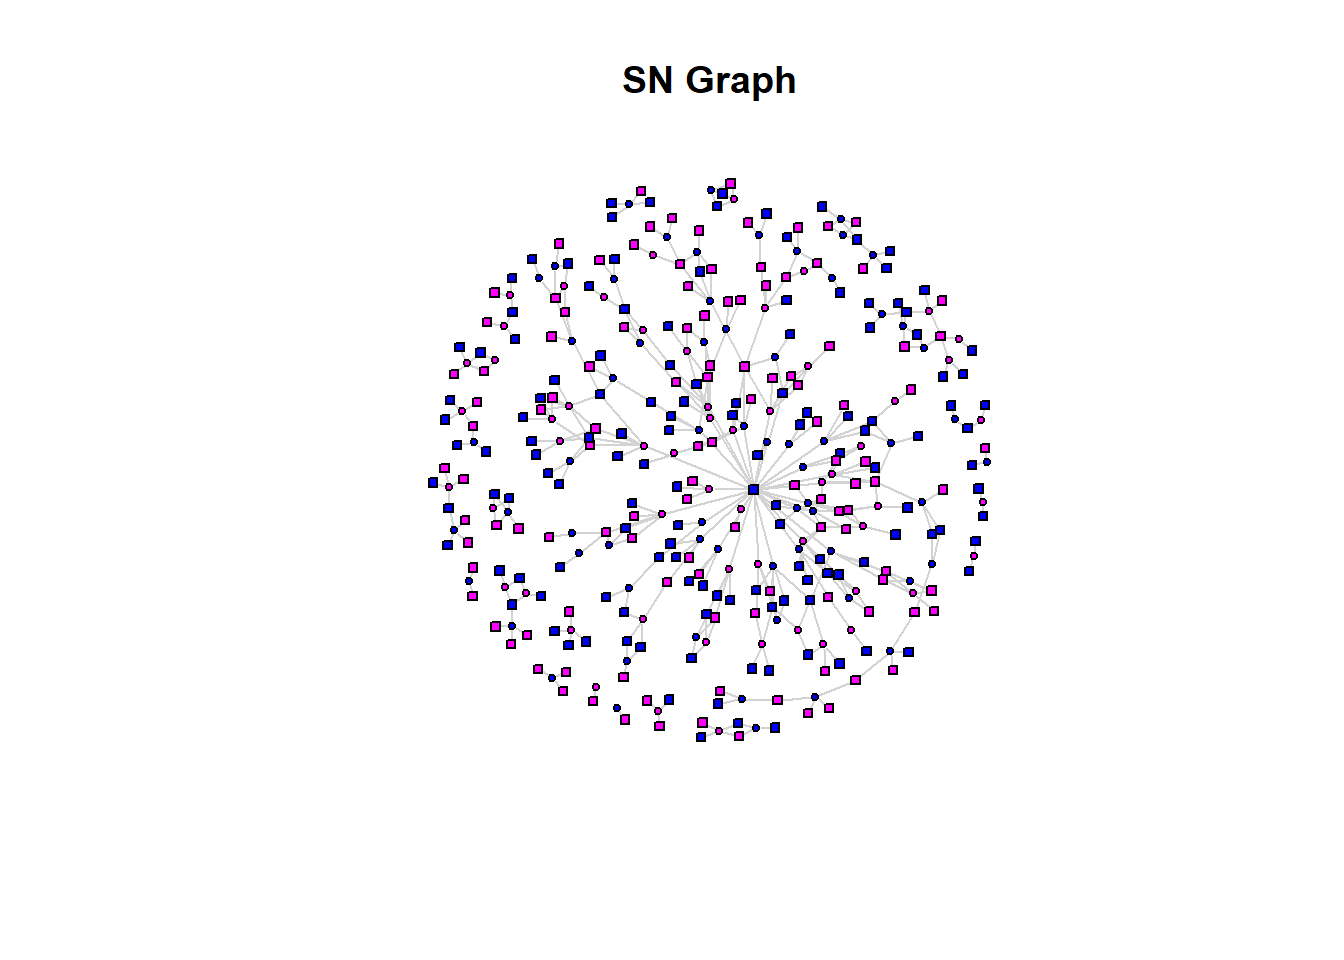
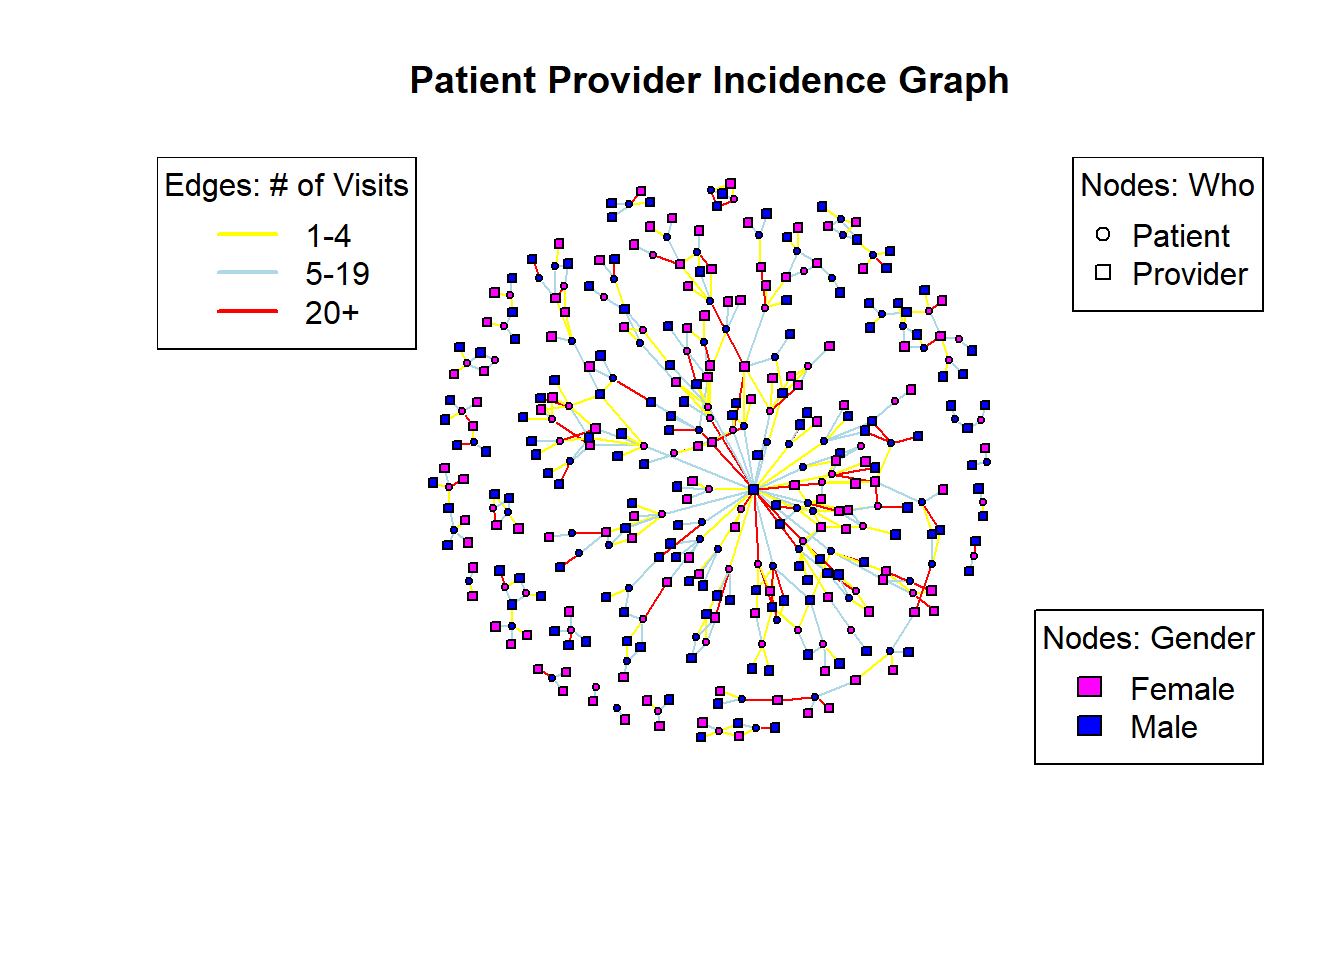
update graph post two

diff --git a/docs/posts/Post_Two/post_2.html b/docs/posts/Post_Two/post_2.html
@@ -293,18 +293,49 @@ pre > code.sourceCode > span > a:first-child::before { text-decoration: underlin
 <div class="cell">
 <div class="sourceCode cell-code" id="cb22"><pre class="sourceCode r code-with-copy"><code class="sourceCode r"><span id="cb22-1"><a href="#cb22-1" aria-hidden="true" tabindex="-1"></a>vertex_colors <span class="ot">&lt;-</span> <span class="fu">ifelse</span>(attribute_list<span class="sc">$</span>GENDER <span class="sc">==</span> <span class="st">"F"</span>, <span class="st">"blue"</span>, <span class="st">"magenta"</span>)</span>
 <span id="cb22-2"><a href="#cb22-2" aria-hidden="true" tabindex="-1"></a><span class="fu">V</span>(incidence_graph)<span class="sc">$</span>shape <span class="ot">&lt;-</span> <span class="fu">ifelse</span>(<span class="fu">V</span>(incidence_graph)<span class="sc">$</span>type, <span class="st">"square"</span>, <span class="st">"circle"</span>)</span>
-<span id="cb22-3"><a href="#cb22-3" aria-hidden="true" tabindex="-1"></a><span class="fu">E</span>(incidence_graph)<span class="sc">$</span>color <span class="ot">&lt;-</span> <span class="st">"lightgray"</span></span>
-<span id="cb22-4"><a href="#cb22-4" aria-hidden="true" tabindex="-1"></a></span>
-<span id="cb22-5"><a href="#cb22-5" aria-hidden="true" tabindex="-1"></a></span>
-<span id="cb22-6"><a href="#cb22-6" aria-hidden="true" tabindex="-1"></a><span class="fu">plot</span>(incidence_graph,</span>
-<span id="cb22-7"><a href="#cb22-7" aria-hidden="true" tabindex="-1"></a>     <span class="at">layout =</span> layout.fruchterman.reingold, </span>
-<span id="cb22-8"><a href="#cb22-8" aria-hidden="true" tabindex="-1"></a>     <span class="at">vertex.label.dist =</span> <span class="dv">2</span>, </span>
-<span id="cb22-9"><a href="#cb22-9" aria-hidden="true" tabindex="-1"></a>     <span class="at">vertex.size =</span> <span class="dv">3</span>, </span>
-<span id="cb22-10"><a href="#cb22-10" aria-hidden="true" tabindex="-1"></a>     <span class="at">vertex.color =</span> vertex_colors,</span>
-<span id="cb22-11"><a href="#cb22-11" aria-hidden="true" tabindex="-1"></a>     <span class="at">edge.label =</span> <span class="cn">NA</span>,</span>
-<span id="cb22-12"><a href="#cb22-12" aria-hidden="true" tabindex="-1"></a>     <span class="at">vertex.label =</span> <span class="cn">NA</span>,</span>
-<span id="cb22-13"><a href="#cb22-13" aria-hidden="true" tabindex="-1"></a>     <span class="at">vertex.label.cex =</span> <span class="fl">0.2</span>, </span>
-<span id="cb22-14"><a href="#cb22-14" aria-hidden="true" tabindex="-1"></a>     <span class="at">main =</span> <span class="st">"SN Graph"</span>)</span></code><button title="Copy to Clipboard" class="code-copy-button"><i class="bi"></i></button></pre></div>
+<span id="cb22-3"><a href="#cb22-3" aria-hidden="true" tabindex="-1"></a></span>
+<span id="cb22-4"><a href="#cb22-4" aria-hidden="true" tabindex="-1"></a><span class="co"># Define edge colors based on COUNT attribute</span></span>
+<span id="cb22-5"><a href="#cb22-5" aria-hidden="true" tabindex="-1"></a>edge_colors <span class="ot">&lt;-</span> <span class="fu">ifelse</span>(encounters_el<span class="sc">$</span>COUNT <span class="sc">&lt;</span> <span class="dv">5</span>, <span class="st">"yellow"</span>, </span>
+<span id="cb22-6"><a href="#cb22-6" aria-hidden="true" tabindex="-1"></a>                      <span class="fu">ifelse</span>(encounters_el<span class="sc">$</span>COUNT <span class="sc">&gt;=</span> <span class="dv">5</span> <span class="sc">&amp;</span> encounters_el<span class="sc">$</span>COUNT <span class="sc">&lt;=</span> <span class="dv">19</span>, <span class="st">"lightblue"</span>, <span class="st">"red"</span>))</span>
+<span id="cb22-7"><a href="#cb22-7" aria-hidden="true" tabindex="-1"></a></span>
+<span id="cb22-8"><a href="#cb22-8" aria-hidden="true" tabindex="-1"></a><span class="co"># Check if the length of edge_colors matches the number of edges</span></span>
+<span id="cb22-9"><a href="#cb22-9" aria-hidden="true" tabindex="-1"></a><span class="cf">if</span> (<span class="fu">length</span>(edge_colors) <span class="sc">==</span> <span class="fu">ecount</span>(incidence_graph)) {</span>
+<span id="cb22-10"><a href="#cb22-10" aria-hidden="true" tabindex="-1"></a>  <span class="co"># Set edge attributes based on counts</span></span>
+<span id="cb22-11"><a href="#cb22-11" aria-hidden="true" tabindex="-1"></a>  <span class="fu">E</span>(incidence_graph)<span class="sc">$</span>color <span class="ot">&lt;-</span> edge_colors</span>
+<span id="cb22-12"><a href="#cb22-12" aria-hidden="true" tabindex="-1"></a>} <span class="cf">else</span> {</span>
+<span id="cb22-13"><a href="#cb22-13" aria-hidden="true" tabindex="-1"></a>  <span class="fu">print</span>(<span class="st">"Length of edge_colors does not match the number of edges in the graph."</span>)</span>
+<span id="cb22-14"><a href="#cb22-14" aria-hidden="true" tabindex="-1"></a>}</span>
+<span id="cb22-15"><a href="#cb22-15" aria-hidden="true" tabindex="-1"></a></span>
+<span id="cb22-16"><a href="#cb22-16" aria-hidden="true" tabindex="-1"></a><span class="fu">E</span>(incidence_graph)<span class="sc">$</span>color <span class="ot">&lt;-</span> edge_colors</span>
+<span id="cb22-17"><a href="#cb22-17" aria-hidden="true" tabindex="-1"></a></span>
+<span id="cb22-18"><a href="#cb22-18" aria-hidden="true" tabindex="-1"></a></span>
+<span id="cb22-19"><a href="#cb22-19" aria-hidden="true" tabindex="-1"></a><span class="fu">plot</span>(incidence_graph,</span>
+<span id="cb22-20"><a href="#cb22-20" aria-hidden="true" tabindex="-1"></a>     <span class="at">layout =</span> layout.fruchterman.reingold, </span>
+<span id="cb22-21"><a href="#cb22-21" aria-hidden="true" tabindex="-1"></a>     <span class="at">vertex.label.dist =</span> <span class="dv">2</span>, </span>
+<span id="cb22-22"><a href="#cb22-22" aria-hidden="true" tabindex="-1"></a>     <span class="at">vertex.size =</span> <span class="dv">3</span>, </span>
+<span id="cb22-23"><a href="#cb22-23" aria-hidden="true" tabindex="-1"></a>     <span class="at">vertex.color =</span> vertex_colors,</span>
+<span id="cb22-24"><a href="#cb22-24" aria-hidden="true" tabindex="-1"></a>     <span class="at">edge.label =</span> <span class="cn">NA</span>,</span>
+<span id="cb22-25"><a href="#cb22-25" aria-hidden="true" tabindex="-1"></a>     <span class="at">vertex.label =</span> <span class="cn">NA</span>,</span>
+<span id="cb22-26"><a href="#cb22-26" aria-hidden="true" tabindex="-1"></a>     <span class="at">vertex.label.cex =</span> <span class="fl">0.2</span>, </span>
+<span id="cb22-27"><a href="#cb22-27" aria-hidden="true" tabindex="-1"></a>     <span class="at">main =</span> <span class="st">"Patient Provider Incidence Graph"</span>)</span>
+<span id="cb22-28"><a href="#cb22-28" aria-hidden="true" tabindex="-1"></a><span class="co"># Define legend for vertex colors</span></span>
+<span id="cb22-29"><a href="#cb22-29" aria-hidden="true" tabindex="-1"></a><span class="fu">legend</span>(<span class="st">"bottomright"</span>,</span>
+<span id="cb22-30"><a href="#cb22-30" aria-hidden="true" tabindex="-1"></a>       <span class="at">legend =</span> <span class="fu">c</span>(<span class="st">"Female"</span>, <span class="st">"Male"</span>),  <span class="co"># You can customize these labels</span></span>
+<span id="cb22-31"><a href="#cb22-31" aria-hidden="true" tabindex="-1"></a>       <span class="at">fill =</span> <span class="fu">c</span>(<span class="st">"magenta"</span>, <span class="st">"blue"</span>),   <span class="co"># Fill colors corresponding to vertex colors</span></span>
+<span id="cb22-32"><a href="#cb22-32" aria-hidden="true" tabindex="-1"></a>       <span class="at">title =</span> <span class="st">"Nodes: Gender"</span>)              <span class="co"># Legend title</span></span>
+<span id="cb22-33"><a href="#cb22-33" aria-hidden="true" tabindex="-1"></a></span>
+<span id="cb22-34"><a href="#cb22-34" aria-hidden="true" tabindex="-1"></a><span class="co"># Define legend for vertex shapes</span></span>
+<span id="cb22-35"><a href="#cb22-35" aria-hidden="true" tabindex="-1"></a><span class="fu">legend</span>(<span class="st">"topright"</span>,</span>
+<span id="cb22-36"><a href="#cb22-36" aria-hidden="true" tabindex="-1"></a>       <span class="at">legend =</span> <span class="fu">c</span>(<span class="st">"Patient"</span>, <span class="st">"Provider"</span>),  <span class="co"># You can customize these labels</span></span>
+<span id="cb22-37"><a href="#cb22-37" aria-hidden="true" tabindex="-1"></a>       <span class="at">pch =</span> <span class="fu">c</span>(<span class="dv">1</span>, <span class="dv">0</span>),                      <span class="co"># Point shapes corresponding to vertex shapes</span></span>
+<span id="cb22-38"><a href="#cb22-38" aria-hidden="true" tabindex="-1"></a>       <span class="at">title =</span> <span class="st">"Nodes: Who"</span>)                     <span class="co"># Legend title</span></span>
+<span id="cb22-39"><a href="#cb22-39" aria-hidden="true" tabindex="-1"></a></span>
+<span id="cb22-40"><a href="#cb22-40" aria-hidden="true" tabindex="-1"></a><span class="co"># Define legend for edge colors</span></span>
+<span id="cb22-41"><a href="#cb22-41" aria-hidden="true" tabindex="-1"></a><span class="fu">legend</span>(<span class="st">"topleft"</span>,</span>
+<span id="cb22-42"><a href="#cb22-42" aria-hidden="true" tabindex="-1"></a>       <span class="at">legend =</span> <span class="fu">c</span>(<span class="st">"1-4"</span>, <span class="st">"5-19"</span>, <span class="st">"20+"</span>),  <span class="co"># You can customize these labels</span></span>
+<span id="cb22-43"><a href="#cb22-43" aria-hidden="true" tabindex="-1"></a>       <span class="at">col =</span> <span class="fu">c</span>(<span class="st">"yellow"</span>, <span class="st">"lightblue"</span>, <span class="st">"red"</span>),  <span class="co"># Line colors corresponding to edge colors</span></span>
+<span id="cb22-44"><a href="#cb22-44" aria-hidden="true" tabindex="-1"></a>       <span class="at">lwd =</span> <span class="dv">2</span>,                            <span class="co"># Line width</span></span>
+<span id="cb22-45"><a href="#cb22-45" aria-hidden="true" tabindex="-1"></a>       <span class="at">title =</span> <span class="st">"Edges: # of Visits"</span>)              <span class="co"># Legend title</span></span></code><button title="Copy to Clipboard" class="code-copy-button"><i class="bi"></i></button></pre></div>
 <div class="cell-output-display">
 <p><img src="post_2_files/figure-html/unnamed-chunk-8-1.png" class="img-fluid" width="672"></p>
 </div>
@@ -703,27 +734,30 @@ Elmer371 Kutch271            TRUE   1 0.000000e+00 0.1000000000 1.372897e-17</co
 <span id="cb25-3"><a href="#cb25-3" aria-hidden="true" tabindex="-1"></a><span class="co"># set the seed to reproduce the plot layout</span></span>
 <span id="cb25-4"><a href="#cb25-4" aria-hidden="true" tabindex="-1"></a><span class="fu">set.seed</span>( <span class="dv">235</span> )</span>
 <span id="cb25-5"><a href="#cb25-5" aria-hidden="true" tabindex="-1"></a></span>
-<span id="cb25-6"><a href="#cb25-6" aria-hidden="true" tabindex="-1"></a><span class="fu">plot</span>(incidence_graph,     <span class="at">edge.label =</span> <span class="cn">NA</span>,</span>
-<span id="cb25-7"><a href="#cb25-7" aria-hidden="true" tabindex="-1"></a>     <span class="at">vertex.label =</span> <span class="cn">NA</span>, </span>
-<span id="cb25-8"><a href="#cb25-8" aria-hidden="true" tabindex="-1"></a>     <span class="at">main =</span> <span class="st">"Patient Provider Incidence Graph with Degree Information"</span>)</span>
-<span id="cb25-9"><a href="#cb25-9" aria-hidden="true" tabindex="-1"></a><span class="co"># Define legend for vertex colors</span></span>
-<span id="cb25-10"><a href="#cb25-10" aria-hidden="true" tabindex="-1"></a><span class="fu">legend</span>(<span class="st">"bottomright"</span>,</span>
-<span id="cb25-11"><a href="#cb25-11" aria-hidden="true" tabindex="-1"></a>       <span class="at">legend =</span> <span class="fu">c</span>(<span class="st">"Female"</span>, <span class="st">"Male"</span>),  <span class="co"># You can customize these labels</span></span>
-<span id="cb25-12"><a href="#cb25-12" aria-hidden="true" tabindex="-1"></a>       <span class="at">fill =</span> <span class="fu">c</span>(<span class="st">"pink"</span>, <span class="st">"blue"</span>),   <span class="co"># Fill colors corresponding to vertex colors</span></span>
-<span id="cb25-13"><a href="#cb25-13" aria-hidden="true" tabindex="-1"></a>       <span class="at">title =</span> <span class="st">"Nodes: Gender"</span>)              <span class="co"># Legend title</span></span>
-<span id="cb25-14"><a href="#cb25-14" aria-hidden="true" tabindex="-1"></a></span>
-<span id="cb25-15"><a href="#cb25-15" aria-hidden="true" tabindex="-1"></a><span class="co"># Define legend for vertex shapes</span></span>
-<span id="cb25-16"><a href="#cb25-16" aria-hidden="true" tabindex="-1"></a><span class="fu">legend</span>(<span class="st">"topright"</span>,</span>
-<span id="cb25-17"><a href="#cb25-17" aria-hidden="true" tabindex="-1"></a>       <span class="at">legend =</span> <span class="fu">c</span>(<span class="st">"Patient"</span>, <span class="st">"Provider"</span>),  <span class="co"># You can customize these labels</span></span>
-<span id="cb25-18"><a href="#cb25-18" aria-hidden="true" tabindex="-1"></a>       <span class="at">pch =</span> <span class="fu">c</span>(<span class="dv">1</span>, <span class="dv">0</span>),                      <span class="co"># Point shapes corresponding to vertex shapes</span></span>
-<span id="cb25-19"><a href="#cb25-19" aria-hidden="true" tabindex="-1"></a>       <span class="at">title =</span> <span class="st">"Nodes: Who"</span>)                     <span class="co"># Legend title</span></span>
-<span id="cb25-20"><a href="#cb25-20" aria-hidden="true" tabindex="-1"></a></span>
-<span id="cb25-21"><a href="#cb25-21" aria-hidden="true" tabindex="-1"></a><span class="co"># Define legend for edge colors</span></span>
-<span id="cb25-22"><a href="#cb25-22" aria-hidden="true" tabindex="-1"></a><span class="fu">legend</span>(<span class="st">"topleft"</span>, </span>
-<span id="cb25-23"><a href="#cb25-23" aria-hidden="true" tabindex="-1"></a>       <span class="at">legend =</span> <span class="st">"Vertex Size"</span>, </span>
-<span id="cb25-24"><a href="#cb25-24" aria-hidden="true" tabindex="-1"></a>       <span class="at">pch =</span> <span class="dv">1</span>, </span>
-<span id="cb25-25"><a href="#cb25-25" aria-hidden="true" tabindex="-1"></a>       <span class="at">pt.cex =</span> <span class="fu">seq</span>(<span class="fl">0.5</span>, <span class="dv">3</span>, <span class="at">length.out =</span> <span class="dv">5</span>), </span>
-<span id="cb25-26"><a href="#cb25-26" aria-hidden="true" tabindex="-1"></a>       <span class="at">title =</span> <span class="st">"Degree"</span>)</span></code><button title="Copy to Clipboard" class="code-copy-button"><i class="bi"></i></button></pre></div>
+<span id="cb25-6"><a href="#cb25-6" aria-hidden="true" tabindex="-1"></a><span class="fu">plot</span>(incidence_graph, </span>
+<span id="cb25-7"><a href="#cb25-7" aria-hidden="true" tabindex="-1"></a>     <span class="at">layout =</span> layout.fruchterman.reingold, </span>
+<span id="cb25-8"><a href="#cb25-8" aria-hidden="true" tabindex="-1"></a>     <span class="at">vertex.color =</span> vertex_colors,</span>
+<span id="cb25-9"><a href="#cb25-9" aria-hidden="true" tabindex="-1"></a>     <span class="at">edge.label =</span> <span class="cn">NA</span>,</span>
+<span id="cb25-10"><a href="#cb25-10" aria-hidden="true" tabindex="-1"></a>     <span class="at">vertex.label =</span> <span class="cn">NA</span>,</span>
+<span id="cb25-11"><a href="#cb25-11" aria-hidden="true" tabindex="-1"></a>     <span class="at">main =</span> <span class="st">"Patient Provider Incidence Graph with Degree Information"</span>)</span>
+<span id="cb25-12"><a href="#cb25-12" aria-hidden="true" tabindex="-1"></a><span class="co"># Define legend for vertex colors</span></span>
+<span id="cb25-13"><a href="#cb25-13" aria-hidden="true" tabindex="-1"></a><span class="fu">legend</span>(<span class="st">"bottomright"</span>,</span>
+<span id="cb25-14"><a href="#cb25-14" aria-hidden="true" tabindex="-1"></a>       <span class="at">legend =</span> <span class="fu">c</span>(<span class="st">"Female"</span>, <span class="st">"Male"</span>),  <span class="co"># You can customize these labels</span></span>
+<span id="cb25-15"><a href="#cb25-15" aria-hidden="true" tabindex="-1"></a>       <span class="at">fill =</span> <span class="fu">c</span>(<span class="st">"magenta"</span>, <span class="st">"blue"</span>),   <span class="co"># Fill colors corresponding to vertex colors</span></span>
+<span id="cb25-16"><a href="#cb25-16" aria-hidden="true" tabindex="-1"></a>       <span class="at">title =</span> <span class="st">"Nodes: Gender"</span>)              <span class="co"># Legend title</span></span>
+<span id="cb25-17"><a href="#cb25-17" aria-hidden="true" tabindex="-1"></a></span>
+<span id="cb25-18"><a href="#cb25-18" aria-hidden="true" tabindex="-1"></a><span class="co"># Define legend for vertex shapes</span></span>
+<span id="cb25-19"><a href="#cb25-19" aria-hidden="true" tabindex="-1"></a><span class="fu">legend</span>(<span class="st">"topright"</span>,</span>
+<span id="cb25-20"><a href="#cb25-20" aria-hidden="true" tabindex="-1"></a>       <span class="at">legend =</span> <span class="fu">c</span>(<span class="st">"Patient"</span>, <span class="st">"Provider"</span>),  <span class="co"># You can customize these labels</span></span>
+<span id="cb25-21"><a href="#cb25-21" aria-hidden="true" tabindex="-1"></a>       <span class="at">pch =</span> <span class="fu">c</span>(<span class="dv">1</span>, <span class="dv">0</span>),                      <span class="co"># Point shapes corresponding to vertex shapes</span></span>
+<span id="cb25-22"><a href="#cb25-22" aria-hidden="true" tabindex="-1"></a>       <span class="at">title =</span> <span class="st">"Nodes: Who"</span>)                     <span class="co"># Legend title</span></span>
+<span id="cb25-23"><a href="#cb25-23" aria-hidden="true" tabindex="-1"></a></span>
+<span id="cb25-24"><a href="#cb25-24" aria-hidden="true" tabindex="-1"></a><span class="co"># Define legend for edge colors</span></span>
+<span id="cb25-25"><a href="#cb25-25" aria-hidden="true" tabindex="-1"></a><span class="fu">legend</span>(<span class="st">"topleft"</span>, </span>
+<span id="cb25-26"><a href="#cb25-26" aria-hidden="true" tabindex="-1"></a>       <span class="at">legend =</span> <span class="st">"Vertex Size"</span>, </span>
+<span id="cb25-27"><a href="#cb25-27" aria-hidden="true" tabindex="-1"></a>       <span class="at">pch =</span> <span class="dv">1</span>, </span>
+<span id="cb25-28"><a href="#cb25-28" aria-hidden="true" tabindex="-1"></a>       <span class="at">pt.cex =</span> <span class="fu">seq</span>(<span class="fl">0.5</span>, <span class="dv">3</span>, <span class="at">length.out =</span> <span class="dv">5</span>), </span>
+<span id="cb25-29"><a href="#cb25-29" aria-hidden="true" tabindex="-1"></a>       <span class="at">title =</span> <span class="st">"Degree"</span>)</span></code><button title="Copy to Clipboard" class="code-copy-button"><i class="bi"></i></button></pre></div>
 <div class="cell-output-display">
 <p><img src="post_2_files/figure-html/unnamed-chunk-10-1.png" class="img-fluid" width="672"></p>
 </div>

diff --git a/docs/index.html b/docs/index.html
@@ -170,7 +170,7 @@ ul.task-list li input[type="checkbox"] {
 
 <div class="quarto-listing quarto-listing-container-default" id="listing-listing">
 <div class="list quarto-listing-default">
-<div class="quarto-post image-right" data-index="0" data-categories="code,analysis" data-listing-date-sort="1713672000000" data-listing-file-modified-sort="1713728353393" data-listing-date-modified-sort="NaN" data-listing-reading-time-sort="4">
+<div class="quarto-post image-right" data-index="0" data-categories="code,analysis" data-listing-date-sort="1713672000000" data-listing-file-modified-sort="1713729939558" data-listing-date-modified-sort="NaN" data-listing-reading-time-sort="6">
 <div class="thumbnail">
 <p><a href="./posts/Post_Two/post_2.html"> <p class="card-img-top"><img src="posts\Post_Two\post_2_files\figure-html\unnamed-chunk-5-1.png"  class="thumbnail-image card-img"/></p> </a></p>
 </div>
